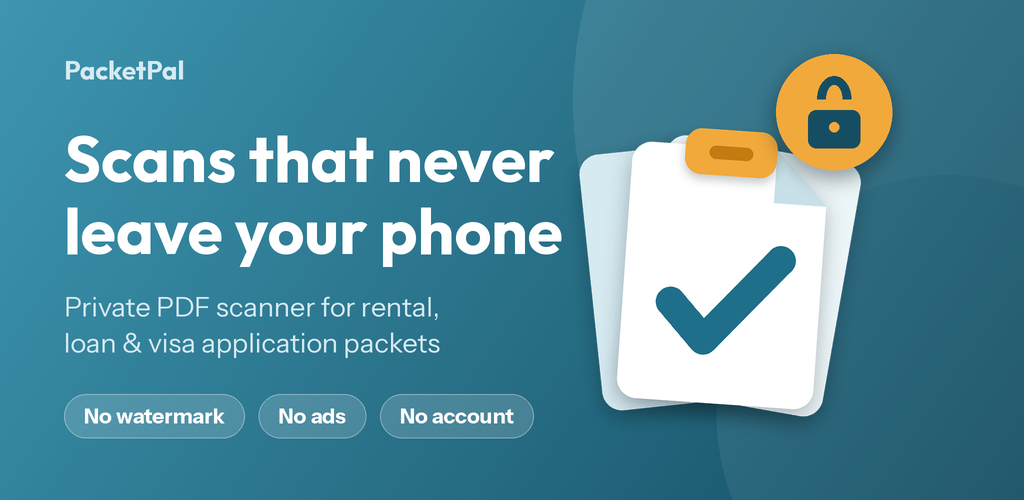
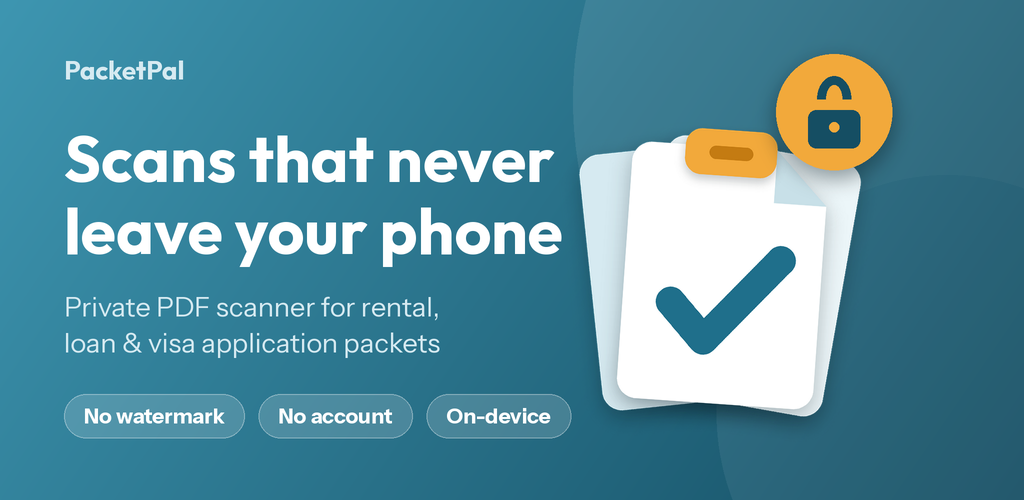
Drop "no ads" claims (ads are planned)
Feature graphic badge, onboarding copy and README no longer promise an
ad-free app. Badge is now "On-device".

Claude-Session: https://claude.ai/code/session_01EAkQUfT4X6HHQeeEgbDkzN

Changed region(s): [[0.3125, 0.78, 0.5625, 0.9]]

diff --git a/tool/generate_feature_graphic.py b/tool/generate_feature_graphic.py
@@ -90,7 +90,7 @@ def main():
 
     x = left
     pf = f('InstrumentSans-Bold.ttf', 21)
-    for label in ('No watermark', 'No ads', 'No account'):
+    for label in ('No watermark', 'No account', 'On-device'):
         x = pill(img, (x, 394 * S), label, pf)
 
     out = img.resize((1024, 500), Image.LANCZOS).convert('RGB')

diff --git a/README.md b/README.md
@@ -2,7 +2,7 @@
 
 Privacy-first document scanner that helps you build and submit application
 packets (rental, loan, visa, job onboarding). Scans never leave the device, no
-watermark, no ads, honest pricing.
+watermark, honest pricing.
 
 ## Status
 
